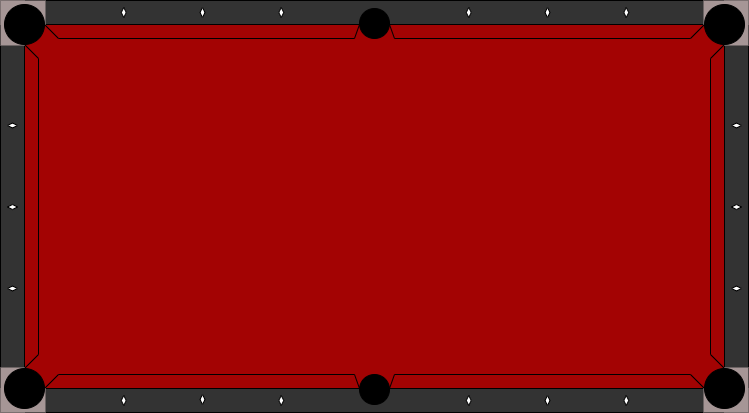
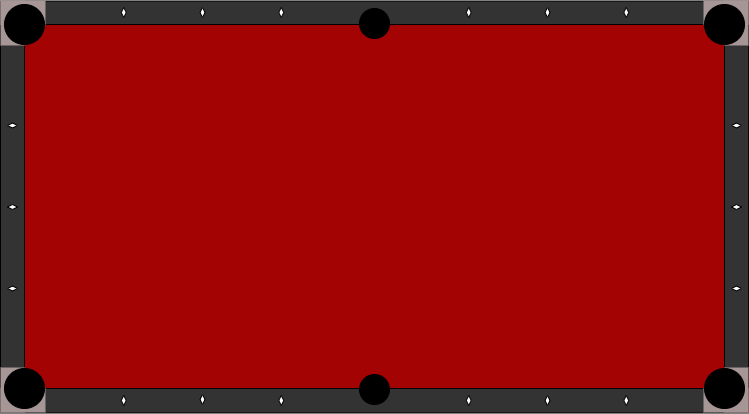
New Tables

diff --git a/ui/PoolPanel.java b/ui/PoolPanel.java
@@ -35,7 +35,7 @@ public class PoolPanel extends JPanel{
         for(Ball ball : ballArray)
             ballUIs.add(new BallUI(ball));
         Table table = new Table(ballArray);
-        this.tableUI = new TableUI("table7.png", table, ballUIs, this);
+        this.tableUI = new TableUI("table8.png", table, ballUIs, this);
         tableUI.setBounds(100, 100, TableUI.getTableWidthPixels(), TableUI.getTableHeightPixels());
         this.add(tableUI);
 
